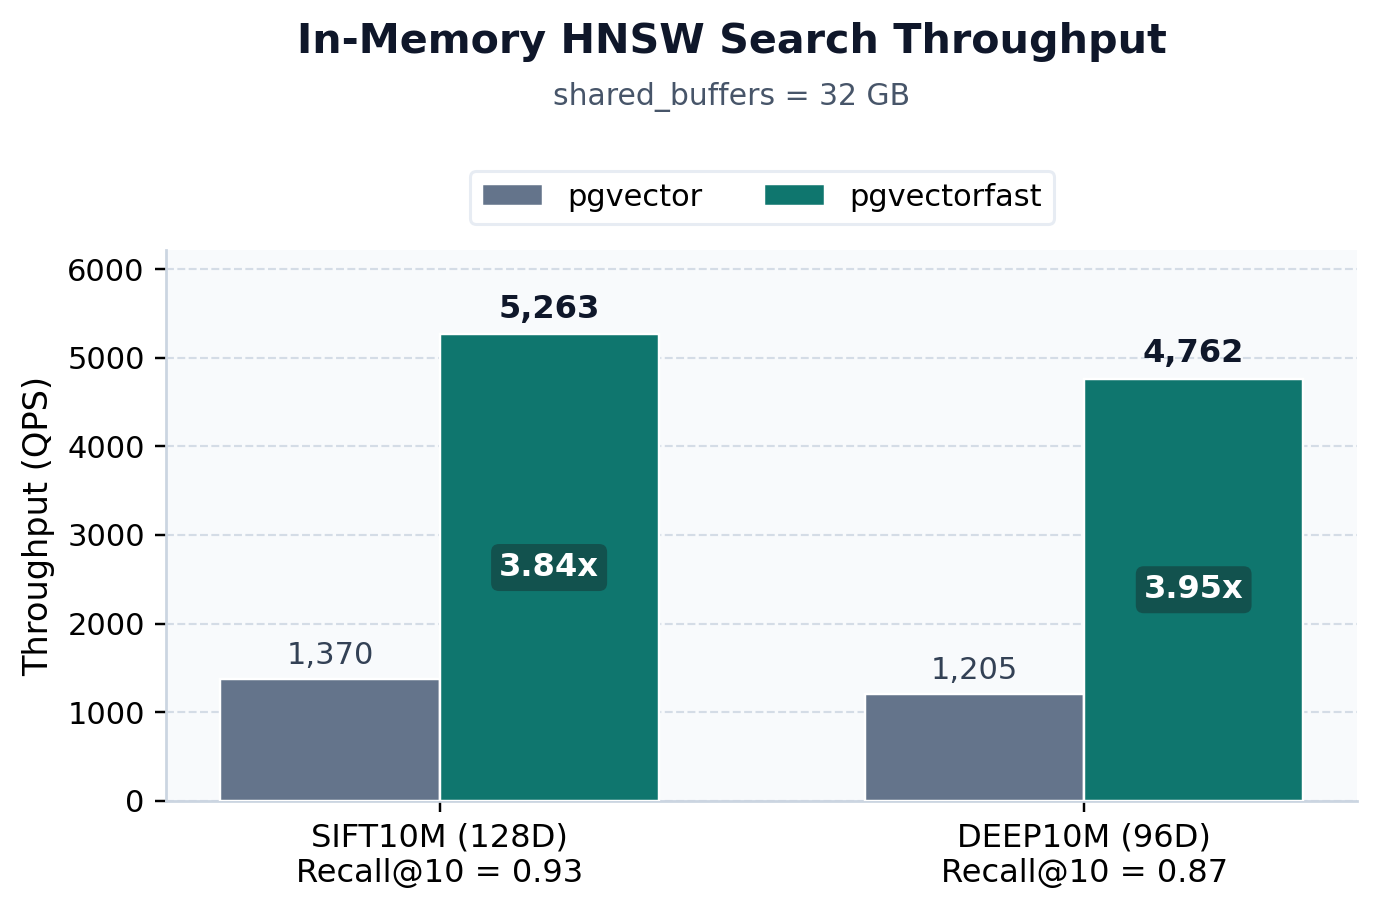
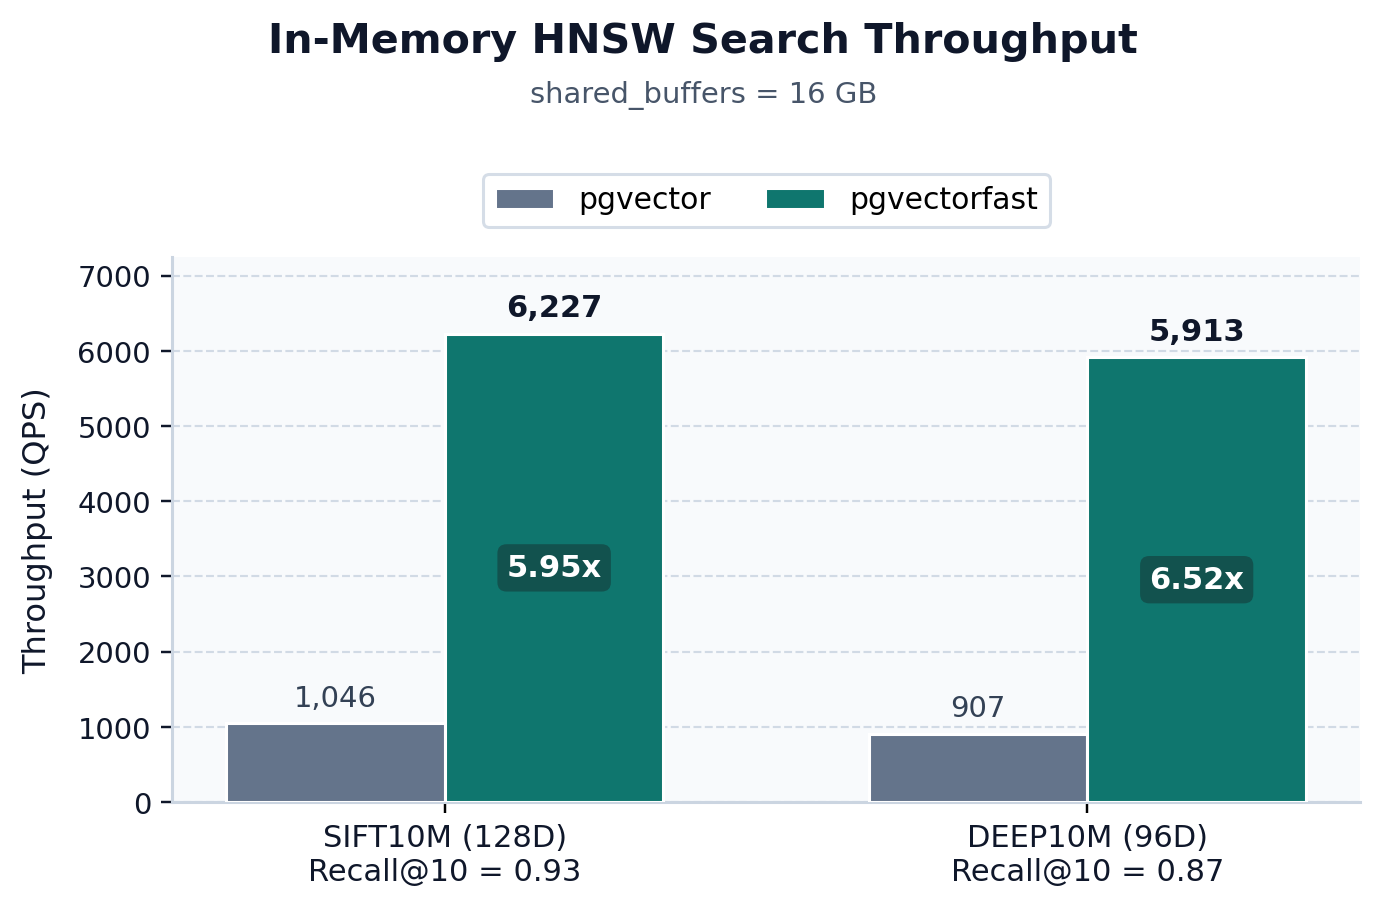
docs(benchmarks): update in-memory HNSW throughput figure and results

diff --git a/BENCHMARKS.md b/BENCHMARKS.md
@@ -4,23 +4,25 @@ All benchmarks below compare **`pgvectorfast`** against **`pgvector` on stock Po
 
 ## Summary
 
-- **In-memory HNSW (`shared_buffers = 32 GB`)**: Over 10M vectors (`k = 10`), `pgvectorfast` delivers **3.84x** higher throughput on `SIFT10M` (`5,263` vs `1,370` QPS at `Recall@10 = 0.93`) and **3.95x** on `DEEP10M` (`4,762` vs `1,205` QPS at `Recall@10 = 0.87`) compared to `pgvector` on stock PostgreSQL.
+- **In-memory HNSW (`shared_buffers = 16 GB`)**: Over 10M vectors (`k = 10`, PostgreSQL 18.0, prepared queries), `pgvectorfast` delivers **5.95x** higher throughput on `SIFT10M` (`6,227` vs `1,046` QPS at `Recall@10 = 0.93`) and **6.52x** on `DEEP10M` (`5,913` vs `907` QPS at `Recall@10 = 0.87`) compared to upstream `pgvector` on stock PostgreSQL (and **5.67x** / **6.37x** over `pgvectorfast` running on the stock PostgreSQL buffer pool without `CALL calico.activate()`).
 - **Larger-than-memory HNSW (`shared_buffers = 2 GB`)**: When the index exceeds `shared_buffers` by ~5x, `pgvectorfast` achieves **5.83x** higher throughput on `SIFT10M` (`67.8` vs `11.6` QPS) and **6.57x** on `DEEP10M` (`62.1` vs `9.5` QPS). On unmodified PostgreSQL 18 (`io_method = io_uring`, `debug_io_direct = 'data'`, `shared_buffers = 2048MB`, `ef_search = 40`, `Recall@10 = 0.9359`, 1,000 `SIFT10M` queries), `pgvectorfast` reaches **64.30 QPS** (`15.55 ms` mean, `23.00 ms` p95) versus **13.78 QPS** (`72.55 ms` mean, `113.26 ms` p95) on stock PostgreSQL (**4.67x** speedup with identical recall and query results).
 - **IVFFlat (`shared_buffers = 32 GB`)**: Lower per-page lookup overhead reduces median query latency by **27.3%** on `DBPedia OpenAI-1M` (`6.27 ms` vs `8.62 ms`, `Recall@3 = 0.91`) and **17.5%** on `GIST1M` (`15.37 ms` vs `18.63 ms`, `Recall@3 = 0.87`).
 - **Analytical scans & joins (`shared_buffers = 128 GB`)**: Across tuple widths from `128 B` to `6144 B`, lightweight buffer-pool lookups accelerate general PostgreSQL query operators as well—reaching **2.99x** on Sequential Scan, **2.34x** on Hash Join, **1.88x** on Merge Join, **1.78x** on Nested Loop Join, and **1.52x** on Indexed Nested Loop Join at `6144 B`.
 
 ---
 
-## In-Memory HNSW Vector Search (`shared_buffers = 32 GB`)
+## In-Memory HNSW Vector Search (`shared_buffers = 16 GB`)
 
-Measured on 10,000 queries (`k = 10`) over 10M vectors (`SIFT10M` 128D at `Recall@10 = 0.93` and `DEEP10M` 96D at `Recall@10 = 0.87`) where the HNSW index fits in memory:
+Measured on PostgreSQL 18.0 using prepared queries over 10,000 timed queries (`k = 10`, `ef_search = 40`) on 10M vectors (`SIFT10M` 128D at `Recall@10 = 0.9336` and `DEEP10M` 96D at `Recall@10 = 0.8712`) where the entire HNSW index and table fit in `shared_buffers`:
 
-| Configuration | SIFT10M Mean / Median / P95 (ms) | SIFT10M Speedup | DEEP10M Mean / Median / P95 (ms) | DEEP10M Speedup |
+| Configuration | SIFT10M Mean / Median / P95 (ms) & QPS | SIFT10M Speedup | DEEP10M Mean / Median / P95 (ms) & QPS | DEEP10M Speedup |
 | --- | --- | --- | --- | --- |
-| Stock `pgvector` (PostgreSQL Hashtable Baseline) | 0.73 / 0.76 / 1.05 | 1.00x | 0.86 / 0.88 / 1.14 | 1.00x |
-| Calico (Array Translation) | 0.47 / 0.49 / 0.67 | 1.52x | 0.54 / 0.54 / 0.71 | 1.32x |
-| Calico + Optimistic Reads | 0.30 / 0.31 / 0.41 | 2.50x | 0.32 / 0.31 / 0.43 | 2.77x |
-| **`pgvectorfast` (Calico + Optimistic Reads + Group Prefetch, Default)** | **0.19 / 0.20 / 0.26** | **3.84x** | **0.20 / 0.20 / 0.26** | **3.95x** |
+| Upstream `pgvector v0.8.7` (Stock PostgreSQL Buffer Pool) | 0.95 / 0.99 / 1.32 (1,046 QPS) | 1.00x | 1.10 / 1.11 / 1.43 (907 QPS) | 1.00x |
+| Calico (Array Translation) | 0.57 / 0.59 / 0.79 (1,754 QPS) | 1.68x | 0.62 / 0.63 / 0.79 (1,604 QPS) | 1.77x |
+| Calico + Optimistic Reads | 0.32 / 0.33 / 0.43 (3,132 QPS) | 2.99x | 0.32 / 0.32 / 0.40 (3,102 QPS) | 3.42x |
+| **`pgvectorfast` (Calico + Optimistic Reads + Group Prefetch, Default)** | **0.16 / 0.16 / 0.20 (6,227 QPS)** | **5.95x** | **0.17 / 0.17 / 0.20 (5,913 QPS)** | **6.52x** |
+
+Without `CALL calico.activate()` (the `pgvectorfast` extension running on stock PostgreSQL shared buffers), `SIFT10M` measures `1,098 QPS` (`0.91 ms` mean) and `DEEP10M` measures `928 QPS` (`1.07 ms` mean), corresponding to a **5.67x** and **6.37x** speedup from the Calico buffer pool and HNSW read optimizations alone.
 
 ## Larger-Than-Memory HNSW Vector Search (`shared_buffers = 2 GB`)
 
